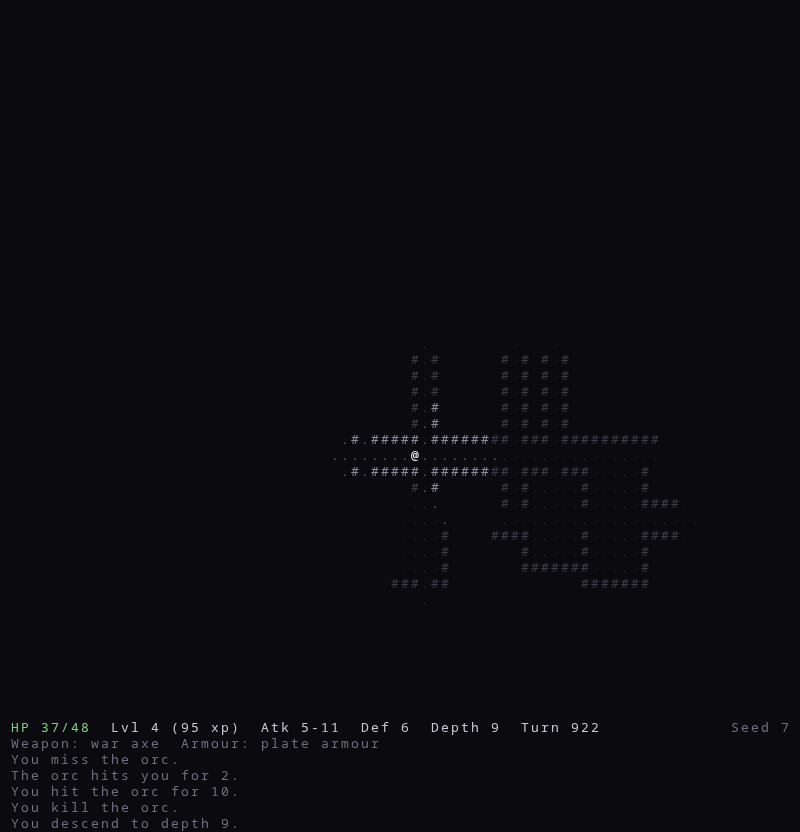
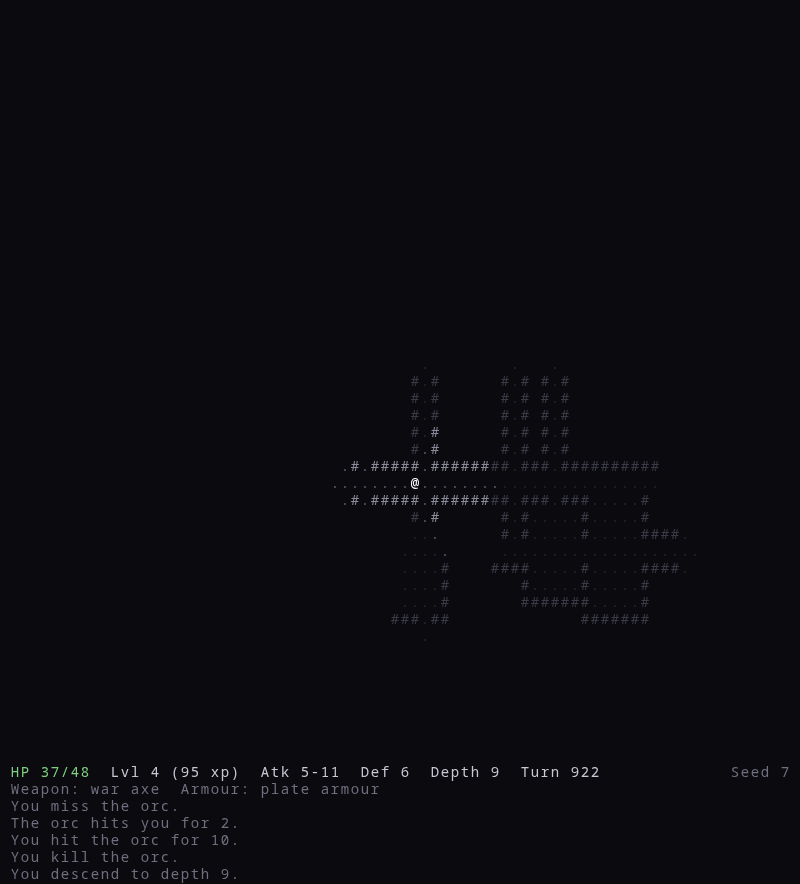
feat: add zoom keys and a minimum glyph size
+ and - step through zoom levels on top of the fit-to-window size; 0
resets. Cells never shrink below 14 px tall, so small windows scroll
rather than becoming unreadable. When the canvas outgrows the window the
page scrolls to keep the player centred; the viewport is the scroller
in both axes so that works horizontally as well as vertically.

Screenshots recaptured at the new default cell size.

diff --git a/src/main.ts b/src/main.ts
@@ -4,13 +4,28 @@
  * in src/core/; drawing lives in src/render/ and src/ui/.
  */
 
-import { GRID_HEIGHT, GRID_WIDTH, type GameState, applyAction, createGame } from "./core/index";
+import {
+  GRID_HEIGHT,
+  GRID_WIDTH,
+  type GameState,
+  applyAction,
+  createGame,
+  getPlayer,
+} from "./core/index";
 import { type UiMode, keyToCommand } from "./input/keyboard";
 import { HUD_ROWS, type Renderer, createRenderer, render } from "./render/renderer";
 import { drawEndScreen } from "./ui/endscreen";
 import { drawHelp } from "./ui/help";
 import { drawHud } from "./ui/hud";
 import { drawInventory } from "./ui/inventory";
+
+/** Glyph cells never shrink below this, so small windows scroll instead of becoming unreadable. */
+const MIN_CELL_HEIGHT = 14;
+/** Width-to-height ratio of a monospace cell. */
+const CELL_ASPECT = 0.6;
+/** Zoom multipliers applied on top of the fit-to-window size; index 1 is the default. */
+const ZOOM_LEVELS: readonly number[] = [0.75, 1, 1.25, 1.5, 2, 2.5, 3];
+const DEFAULT_ZOOM_INDEX = 1;
 
 /**
  * Read the seed from `?seed=` if present, otherwise derive one from the
@@ -33,19 +48,32 @@ function resolveSeed(): number {
   return seed;
 }
 
-function computeCellSize(): { readonly width: number; readonly height: number } {
+/** Cell size that fits the whole grid in the window, scaled by the zoom level and floored at the minimum. */
+function computeCellSize(zoom: number): { readonly width: number; readonly height: number } {
   const totalRows = GRID_HEIGHT + HUD_ROWS;
-  const cellHeight = Math.max(10, Math.floor(window.innerHeight / totalRows));
-  const cellWidth = Math.max(
-    6,
-    Math.min(Math.floor(cellHeight * 0.6), Math.floor(window.innerWidth / GRID_WIDTH)),
+  const fitHeight = Math.min(
+    window.innerHeight / totalRows,
+    window.innerWidth / (GRID_WIDTH * CELL_ASPECT),
   );
-  return { width: cellWidth, height: Math.min(cellHeight, Math.floor(cellWidth / 0.6)) };
+  const height = Math.max(MIN_CELL_HEIGHT, Math.round(fitHeight * zoom));
+  return { width: Math.round(height * CELL_ASPECT), height };
 }
 
-function buildRenderer(canvas: HTMLCanvasElement): Renderer {
-  const cell = computeCellSize();
+function buildRenderer(canvas: HTMLCanvasElement, zoom: number): Renderer {
+  const cell = computeCellSize(zoom);
   return createRenderer(canvas, GRID_WIDTH, GRID_HEIGHT, cell.width, cell.height);
+}
+
+/** When the canvas is larger than the window, scroll so the player stays centred. */
+function scrollToPlayer(canvas: HTMLCanvasElement, renderer: Renderer, state: GameState): void {
+  if (canvas.width <= window.innerWidth && canvas.height <= window.innerHeight) {
+    return;
+  }
+  const player = getPlayer(state);
+  const { cellWidth, cellHeight } = renderer.metrics;
+  const x = canvas.offsetLeft + (player.position.x + 0.5) * cellWidth;
+  const y = canvas.offsetTop + (player.position.y + 0.5) * cellHeight;
+  window.scrollTo(x - window.innerWidth / 2, y - window.innerHeight / 2);
 }
 
 function main(): void {
@@ -56,7 +84,8 @@ function main(): void {
 
   let state: GameState = createGame(resolveSeed());
   let mode: UiMode = "play";
-  let renderer = buildRenderer(canvas);
+  let zoomIndex = DEFAULT_ZOOM_INDEX;
+  let renderer = buildRenderer(canvas, ZOOM_LEVELS[zoomIndex] ?? 1);
 
   const drawOverlay = (r: Renderer, s: GameState): void => {
     drawHud(r, s);
@@ -70,12 +99,15 @@ function main(): void {
 
   const draw = (): void => {
     render(renderer, state, drawOverlay);
+    scrollToPlayer(canvas, renderer, state);
   };
 
-  window.addEventListener("resize", () => {
-    renderer = buildRenderer(canvas);
+  const rebuild = (): void => {
+    renderer = buildRenderer(canvas, ZOOM_LEVELS[zoomIndex] ?? 1);
     draw();
-  });
+  };
+
+  window.addEventListener("resize", rebuild);
 
   window.addEventListener("keydown", (event) => {
     if (event.ctrlKey || event.metaKey || event.altKey) {
@@ -87,7 +119,24 @@ function main(): void {
     }
     event.preventDefault();
     if (command.kind === "ui") {
-      mode = command.command.type === "open" ? command.command.mode : "play";
+      const ui = command.command;
+      switch (ui.type) {
+        case "open":
+          mode = ui.mode;
+          break;
+        case "close":
+          mode = "play";
+          break;
+        case "zoom":
+          if (ui.direction === "reset") {
+            zoomIndex = DEFAULT_ZOOM_INDEX;
+          } else {
+            const step = ui.direction === "in" ? 1 : -1;
+            zoomIndex = Math.min(ZOOM_LEVELS.length - 1, Math.max(0, zoomIndex + step));
+          }
+          rebuild();
+          return;
+      }
     } else {
       const result = applyAction(state, command.action);
       state = result.state;

diff --git a/src/input/keyboard.ts b/src/input/keyboard.ts
@@ -11,7 +11,9 @@ export type UiMode = "play" | "inventory" | "drop" | "help";
 
 /** Commands that affect the client (overlays) rather than the game state. */
 export type UiCommand =
-  { readonly type: "open"; readonly mode: Exclude<UiMode, "play"> } | { readonly type: "close" };
+  | { readonly type: "open"; readonly mode: Exclude<UiMode, "play"> }
+  | { readonly type: "close" }
+  | { readonly type: "zoom"; readonly direction: "in" | "out" | "reset" };
 
 export type InputCommand =
   | { readonly kind: "action"; readonly action: Action }
@@ -67,6 +69,14 @@ function playModeCommand(key: string): InputCommand | null {
       return { kind: "ui", command: { type: "open", mode: "drop" } };
     case "?":
       return { kind: "ui", command: { type: "open", mode: "help" } };
+    case "+":
+    case "=":
+      return { kind: "ui", command: { type: "zoom", direction: "in" } };
+    case "-":
+    case "_":
+      return { kind: "ui", command: { type: "zoom", direction: "out" } };
+    case "0":
+      return { kind: "ui", command: { type: "zoom", direction: "reset" } };
     default:
       return null;
   }

diff --git a/src/ui/help.ts b/src/ui/help.ts
@@ -16,6 +16,8 @@ const KEY_MAP: readonly (readonly [string, string])[] = [
   ["i", "open your pack; press a letter to use or equip"],
   ["d", "drop an item; press a letter to choose"],
   ["?", "toggle this help"],
+  ["+ / -", "zoom in / out (the page scrolls to follow you)"],
+  ["0", "reset zoom"],
   ["Esc", "close any overlay"],
 ];
 
@@ -29,7 +31,7 @@ const LEGEND: readonly (readonly [string, string])[] = [
 ];
 
 export function drawHelp(renderer: Renderer): void {
-  const box = centredBox(renderer, 76, 26);
+  const box = centredBox(renderer, 76, 28);
   drawFrame(renderer, box, "Help");
   const left = box.col + 3;
   let row = box.row + 2;

diff --git a/index.html b/index.html
@@ -12,7 +12,15 @@
         background: #000;
         color: #ccc;
         font-family: "DejaVu Sans Mono", "Menlo", "Consolas", monospace;
-        overflow: hidden;
+      }
+      html {
+        /* The canvas may outgrow the window when zoomed in; the viewport scrolls in both axes. */
+        overflow: auto;
+      }
+      body {
+        /* Size the body to its content so horizontal overflow reaches the viewport scroller. */
+        width: max-content;
+        min-width: 100%;
       }
       #game {
         display: block;

diff --git a/README.md b/README.md
@@ -56,17 +56,19 @@ npm run typecheck  # tsc --noEmit
 You are `@`. Walk into a monster to attack it. Every action you take gives every
 monster on the level one action in return.
 
-| Key                         | Effect                                                             |
-| --------------------------- | ------------------------------------------------------------------ |
-| Arrow keys, `h` `j` `k` `l` | Move west / south / north / east                                   |
-| `y` `u` `b` `n`             | Move diagonally (north-west, north-east, south-west, south-east)   |
-| `.` or `s`                  | Wait one turn                                                      |
-| `>`                         | Descend the stairs when standing on `>`                            |
-| `g` or `,`                  | Pick up the item under you                                         |
-| `i`                         | Open your pack, then press a slot letter (`a`–`j`) to use or equip |
-| `d`                         | Drop an item: press `d`, then the slot letter                      |
-| `?`                         | Toggle the help screen                                             |
-| `Esc`                       | Close any overlay                                                  |
+| Key                         | Effect                                                                            |
+| --------------------------- | --------------------------------------------------------------------------------- |
+| Arrow keys, `h` `j` `k` `l` | Move west / south / north / east                                                  |
+| `y` `u` `b` `n`             | Move diagonally (north-west, north-east, south-west, south-east)                  |
+| `.` or `s`                  | Wait one turn                                                                     |
+| `>`                         | Descend the stairs when standing on `>`                                           |
+| `g` or `,`                  | Pick up the item under you                                                        |
+| `i`                         | Open your pack, then press a slot letter (`a`–`j`) to use or equip                |
+| `d`                         | Drop an item: press `d`, then the slot letter                                     |
+| `?`                         | Toggle the help screen                                                            |
+| `+` / `-`                   | Zoom in / out; when the canvas outgrows the window the page scrolls to follow you |
+| `0`                         | Reset zoom                                                                        |
+| `Esc`                       | Close any overlay                                                                 |
 
 Glyphs: `#` wall, `.` floor, `>` stairs down, `!` potion, `?` scroll, `)` weapon,
 `[` armour. Letters are monsters. Tiles you have seen but cannot currently see
